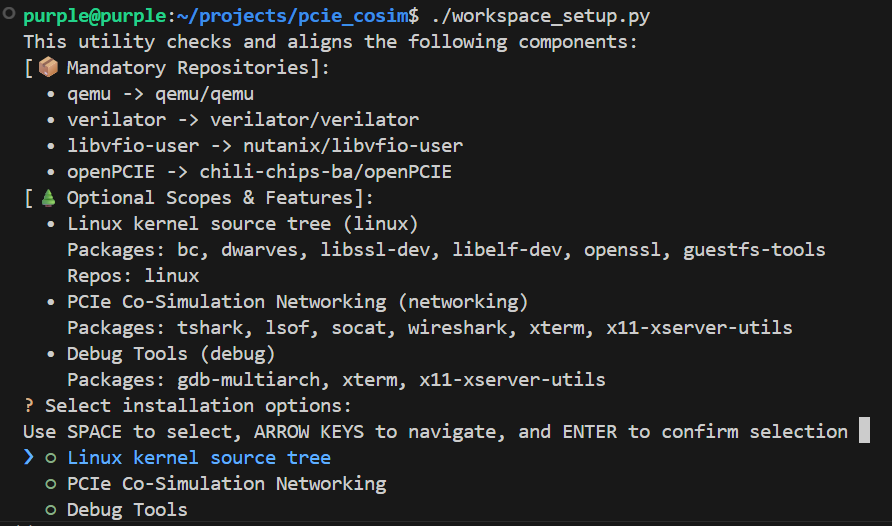
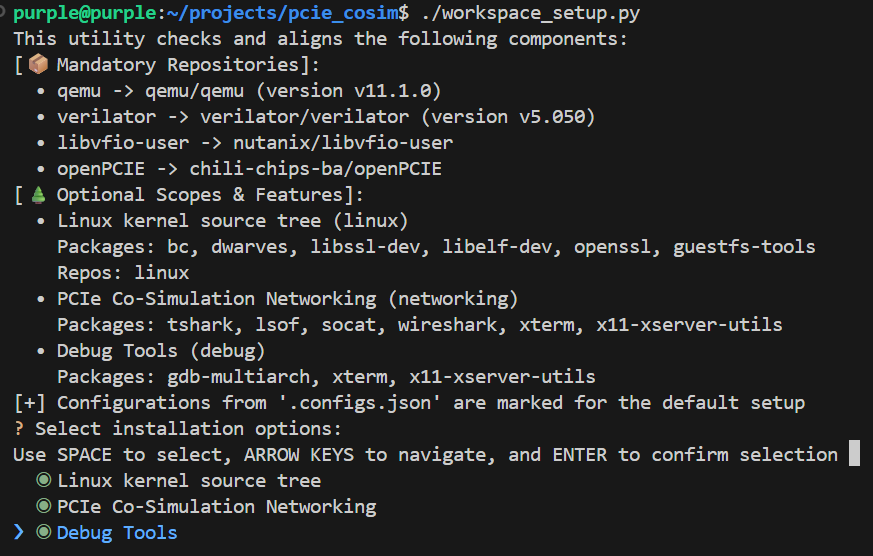
update readme.md

Changed region(s): [[0.0, 0.0, 0.9897, 1.0]]

diff --git a/README.md b/README.md
@@ -26,34 +26,34 @@ PCIe co-simulation framework using Verilator and QEMU vfio-user-pci with openPCI
 The PCIe Cosim Bridge acts as a vfio-user server, facilitating communication between the QEMU and the PCIe Endpoint Simulation. When the PCIe Bridge receives a vfio-user message from QEMU it forwards the PCIe packets to the PCIe Simulation, which completes the PCIe transaction. For no-posted operations like MRd, the PCIe Simulation sends an ACK along with the requested data back to the PCIe Bridge, which then forwards the data to QEMU.
 
 ```text
-    +---------------------------------+
-    |                                 |
-    | (QEMU vfio-user-pci) + Linux OS |
-    |                                 |
-    +---------------------------------+
-                    ^
-                    |
-            vfio-user proto (UDS)
-                    |
-                    v
-    +---------------------------------+
-    |         libvfio-user            |
-    |       (vfio-user Server)        |
-    |                                 |
-    |       PCIe Cosim Bridge         |
-    |                                 |
-    |       (UDS/TCP Client)          |
-    +---------------------------------+
-                    ^^
-                    ||
-            soft-TLP proto (UDS/TCP)
-                    ||
-                    vV
-    +---------------------------------+
-    |       (UDS/TCP Server)          |
-    |                                 |
-    |   Verilated PCIe Sim Endpoint   |
-    +---------------------------------+
+            +---------------------------------+
+            |                                 |
+            | (QEMU vfio-user-pci) + Linux OS |
+            |                                 |
+            +---------------------------------+
+                            ^
+                            |
+                    vfio-user proto (UDS)
+                            |
+                            v
+            +---------------------------------+
+            |         libvfio-user            |
+            |       (vfio-user Server)        |
+            |                                 |
+            |       PCIe Cosim Bridge         |
+            |                                 |
+            |       (UDS/TCP Client)          |
+            +---------------------------------+
+                            ^^
+                            ||
+                    soft-TLP proto (UDS/TCP)
+                            ||
+                            vV
+            +---------------------------------+
+            |       (UDS/TCP Server)          |
+            |                                 |
+            |   Verilated PCIe Sim Endpoint   |
+            +---------------------------------+
 ```
 
 ## Quick Start
@@ -123,7 +123,7 @@ The default co-simulation build options can be modified in `/path/to/your/local/
 
 ### 4. Run
 
-Execute the `run_pcie_agent.` automation script to start PCIe co-simulation with QEMU, bridge daemon, and RTL PCIe AXI RAM endpoint simulation:
+Execute the `run_pcie_agent.py` script to start PCIe co-simulation with QEMU, bridge daemon, and RTL PCIe AXI RAM endpoint simulation:
 
 ```text
 chmod +x /path/to/your/local/PcieCosim/run_pcie_agent.py
@@ -157,9 +157,15 @@ You can configure the following variables in `run_pcie_agent.py`:
 
 ### 5. Other
 
-### 5.1 Optional
+### 5.1. Uninstall, purge, or remove component
 
-#### 5.1.1 GTKWave
+Use the `workspace_setup.py` script to uninstall, purge, or remove project-specific components:
+
+<img src="images/pcie_cosim_workspace_setup_help.png" alt="App Dashboard" width="75%">
+
+### 5.2 Optional
+
+#### 5.2.1 GTKWave
 
 To visualize PCIe Simulation RTL signalling install GTKWave:
 ```text
@@ -169,7 +175,7 @@ You can see the simulation traces by running `make wave` or `gtkwave sim_wavefor
 
 <img src="images/gtkwave-sim-waveform-trace.png" alt="App Dashboard" width="75%">
 
-#### 5.1.2 Wireshark Packet Sniffer
+#### 5.2.2 Wireshark Packet Sniffer
 
 Configure the sudoers file to grant the necessary permissions for executing the packet capture tool without password prompts:
 ```text
